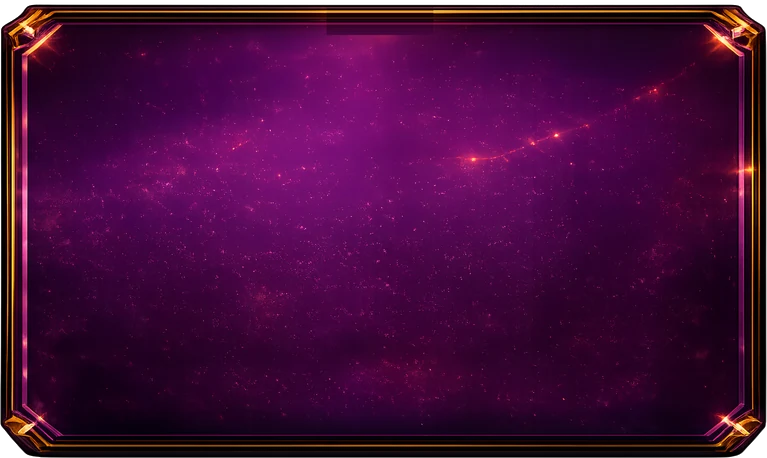
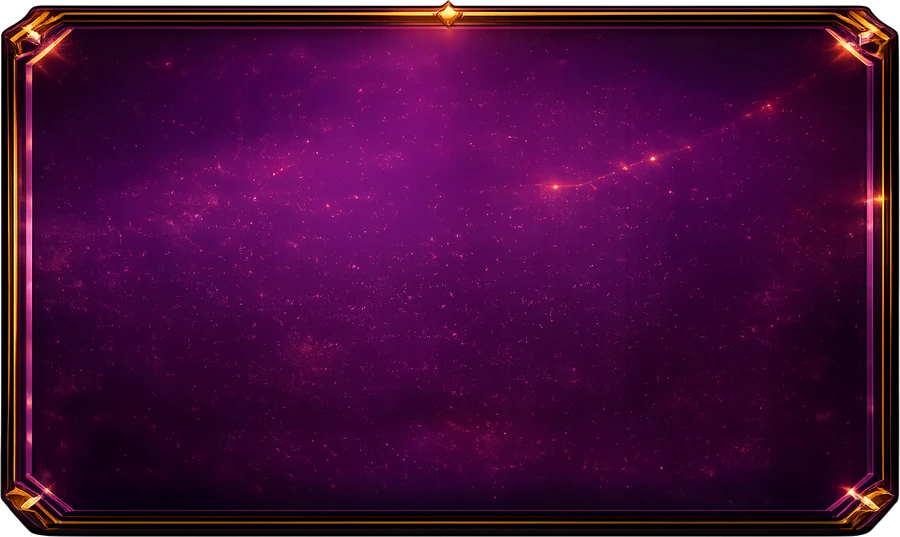
v1.95.0: ongeknipte sectie-art + statistiekkaartjes op maat
- De heldenkaart draagt nu de sectie-art zoals ze getekend is, ruit en al, als
  achtergrond die op de doos wordt gespannen. De uitgeknipte ruit en de
  bewerkte rand zijn weg.
- De kaartjes blijven vierkant maar zijn terug op 74, even hoog als voordat ze
  vierkant werden, zodat het raster op één scherm past.
- De randbreedte schaalt nu MEE met het kaartje (16% van de zijde, precies de
  snede van de art). Een vaste rand op een kleiner kaartje maakt de lijst te
  dun ten opzichte van de rest, en dan leest de art als uitgerekt; dat was wat
  er mis was, niet de verhouding van de doos zelf.
- "Unieke woorden" heet in het raster "Woorden": de lange naam paste niet op
  één regel en werd afgekapt.

diff --git a/frontend/src/components/ProfileHero.tsx b/frontend/src/components/ProfileHero.tsx
@@ -18,17 +18,13 @@ export const GOUD = ["#4A2E04", "#B07C17", "#FFC23D", "#FFEBB8"] as const;
 
 const goudVlak = `linear-gradient(160deg, ${GOUD[3]} 0%, ${GOUD[2]} 38%, ${GOUD[1]} 72%, ${GOUD[0]} 100%)`;
 
-/** Het paneel van de heldenkaart: de echte lijst uit de UI-map.
+/** Het paneel van de heldenkaart: de art uit de UI-map, ongeknipt.
  *
- *  Net als bij de statistiekkaartjes ligt de art er als `border-image` op, met
- *  een snede van 52 van de 767 pixels. Uitrekken als achtergrond zou niet
- *  kunnen: de art is breed getekend (1,7 op 1) en de kaart is bijna vierkant,
- *  dus dan worden de hoekstenen plat.
- *
- *  De ruit boven in het midden is UIT de lijst gehaald en ligt er als eigen
- *  laagje op. In een `border-image` zit hij namelijk in het middenstuk van de
- *  bovenrand, en dat middenstuk wordt over de hele breedte uitgerekt: dan smeer
- *  je één ruit uit tot een gouden streep. */
+ *  Het hele plaatje is de achtergrond en wordt op de doos gespannen. Dat houdt
+ *  de art zoals ze getekend is, ruit en al. Een `border-image` zou de hoeken op
+ *  maat houden, maar dan komt de ruit in het uitrekbare middenstuk van de
+ *  bovenrand terecht en smeert hij uit tot een gouden streep; die kant is
+ *  geprobeerd en zag er slechter uit dan een beetje meerekken. */
 export function Paneel({ children, style, padding = 14 }: { children: ReactNode; style?: CSSProperties; padding?: number | string }) {
   return (
     <div
@@ -36,19 +32,13 @@ export function Paneel({ children, style, padding = 14 }: { children: ReactNode;
         position: "relative",
         boxSizing: "border-box",
         padding,
-        borderStyle: "solid",
-        borderWidth: 15,
-        borderImage: "url(/ui/profile-frame.webp) 52 fill stretch",
+        backgroundImage: "url(/ui/profile-frame.webp)",
+        backgroundSize: "100% 100%",
+        backgroundRepeat: "no-repeat",
         filter: "drop-shadow(0 12px 26px rgba(0,0,0,.5))",
         ...style,
       }}
     >
-      <img
-        src="/ui/profile-gem.webp"
-        alt=""
-        aria-hidden
-        style={{ position: "absolute", left: "50%", top: -7, transform: "translateX(-50%)", width: 76, pointerEvents: "none" }}
-      />
       {children}
     </div>
   );
@@ -125,6 +115,10 @@ export function SectieKop({ label, actie, onActie }: { label: string; actie?: st
  *  hoeken hun maat houden terwijl de zijkanten meerekken: een gewone
  *  achtergrond zou het hele plaatje uitrekken en dan worden de hoekstenen
  *  ovaal. De snede is 70 van de 429 pixels, precies tot voorbij de hoeksteen. */
+/** De zijde van een kaartje. Even hoog als het kaartje vóór het vierkant werd,
+ *  zodat het raster op één scherm blijft passen. */
+const MAAT = 74;
+
 export function StatKaart({ icoon, art, waarde, label }: { icoon: ReactNode; art?: string; waarde: ReactNode; label: string }) {
   return (
     <div
@@ -134,6 +128,13 @@ export function StatKaart({ icoon, art, waarde, label }: { icoon: ReactNode; art
         // de tekst mee scheef.
         position: "relative",
         aspectRatio: "1 / 1",
+        // Vierkant EN klein: op vier kolommen zou een kaartje 86 breed worden en
+        // dan is het blok twee rijen van 86 hoog, waardoor het scherm overloopt.
+        // Deze bovengrens houdt het kaartje even hoog als voordat het vierkant
+        // werd; wat overblijft is lucht tussen de kolommen.
+        maxWidth: MAAT,
+        margin: "0 auto",
+        width: "100%",
         display: "flex",
         flexDirection: "column",
         alignItems: "center",
@@ -141,19 +142,23 @@ export function StatKaart({ icoon, art, waarde, label }: { icoon: ReactNode; art
         // teken hoort vlak onder de lijst te zitten, met de lucht onderaan.
         // Zwevend in het midden lijkt het kaartje half leeg.
         justifyContent: "flex-start",
-        gap: 2,
+        gap: 1,
         boxSizing: "border-box",
         textAlign: "center",
         borderStyle: "solid",
-        borderWidth: 9,
+        // De randbreedte MOET meeschalen met het kaartje: de snede is 70 van de
+        // 429 pixels, dus de lijst beslaat 16% van de zijde. Houd je de rand op
+        // een vaste 9 terwijl het kaartje krimpt, dan wordt de lijst te dun ten
+        // opzichte van de rest en leest de art als uitgerekt.
+        borderWidth: Math.round(MAAT * (70 / 429)),
         borderImage: "url(/ui/stat-frame.webp) 70 fill stretch",
         filter: "drop-shadow(0 4px 9px rgba(0,0,0,.45))",
       }}
     >
       {art ? (
-        <img src={art} alt="" aria-hidden style={{ width: 29, height: 29, objectFit: "contain", flexShrink: 0 }} />
+        <img src={art} alt="" aria-hidden style={{ width: 22, height: 22, objectFit: "contain", flexShrink: 0 }} />
       ) : (
-        <span style={{ color: GOUD[2], height: 29, display: "grid", placeItems: "center", flexShrink: 0 }}>{icoon}</span>
+        <span style={{ color: GOUD[2], height: 22, display: "grid", placeItems: "center", flexShrink: 0 }}>{icoon}</span>
       )}
       {/* Het cijfer is wit en niet goud: het goud zit al in de lijst en in het
           teken, dus een derde gouden ding maakt het kaartje één brij. Wit is
@@ -161,10 +166,9 @@ export function StatKaart({ icoon, art, waarde, label }: { icoon: ReactNode; art
           getal, precies waar het hoort. */}
       <div
         style={{
-          marginTop: 1,
           fontFamily: font.display,
           fontWeight: 800,
-          fontSize: 21,
+          fontSize: 16,
           lineHeight: 1,
           color: "#FFFFFF",
           textShadow: "0 2px 4px rgba(0,0,0,.55)",
@@ -180,7 +184,7 @@ export function StatKaart({ icoon, art, waarde, label }: { icoon: ReactNode; art
           maxWidth: "100%",
           fontFamily: font.ui,
           fontWeight: 500,
-          fontSize: 9,
+          fontSize: 8,
           lineHeight: 1.15,
           color: withAlpha("#FFFFFF", 0.92),
           whiteSpace: "nowrap",

diff --git a/frontend/src/i18n/i18n.tsx b/frontend/src/i18n/i18n.tsx
@@ -81,7 +81,7 @@ const nl: Dict = {
   statWins: "Winsten",
   statPoints: "Punten",
   statBest: "Beste game",
-  statUniques: "Unieke woorden",
+  statUniques: "Woorden",
   statStreak: "Winstreeks",
   statWinPct: "Win %",
   statDubbels: "Dubbels",
@@ -784,7 +784,7 @@ const en: Dict = {
   statWins: "Wins",
   statPoints: "Points",
   statBest: "Best game",
-  statUniques: "Unique words",
+  statUniques: "Words",
   statStreak: "Win streak",
   statWinPct: "Win %",
   statDubbels: "Doubles",

diff --git a/frontend/public/sw.js b/frontend/public/sw.js
@@ -10,7 +10,7 @@
 //    briefly-stale shell can still boot from cache instead of going black.
 //  - Every activation purges ALL old caches (drops any poisoned shell).
 // Never touches the WebSocket or the API.
-const CACHE = "penneer-v34"; // v34: profiel-sectielijst + grotere stat-tekens
+const CACHE = "penneer-v35"; // v35: ongeknipte sectie-art + kaartjes op maat
 
 self.addEventListener("install", () => {
   self.skipWaiting();

diff --git a/frontend/src/version.ts b/frontend/src/version.ts
@@ -1,2 +1,2 @@
 // Bump per user-facing release. Shown in Settings > About.
-export const APP_VERSION = "1.94.0";
+export const APP_VERSION = "1.95.0";
